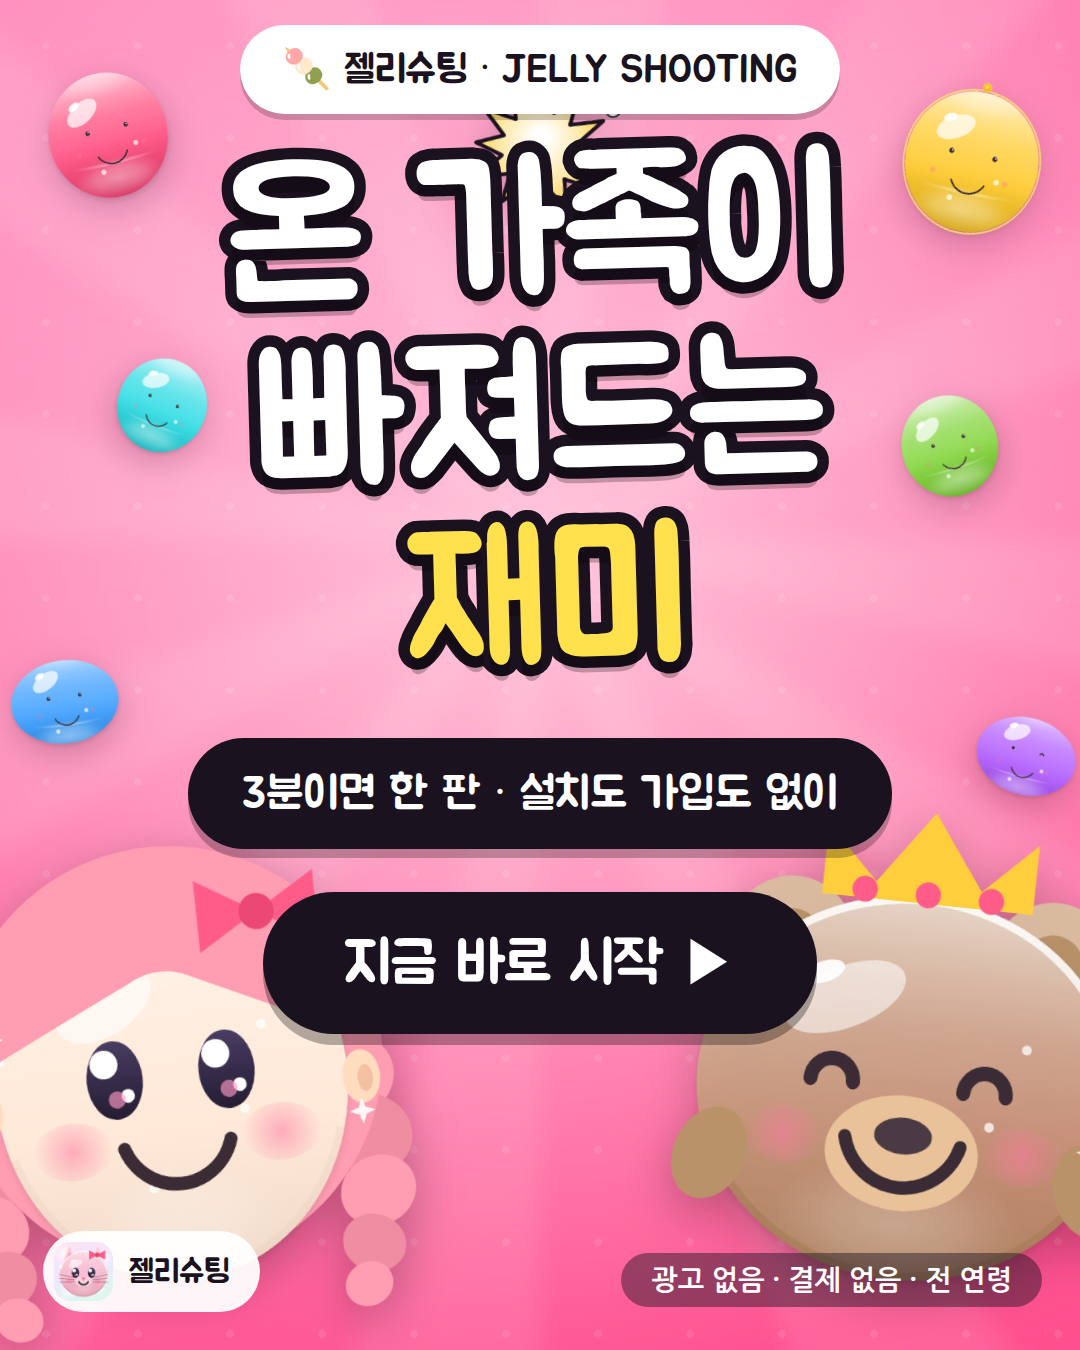
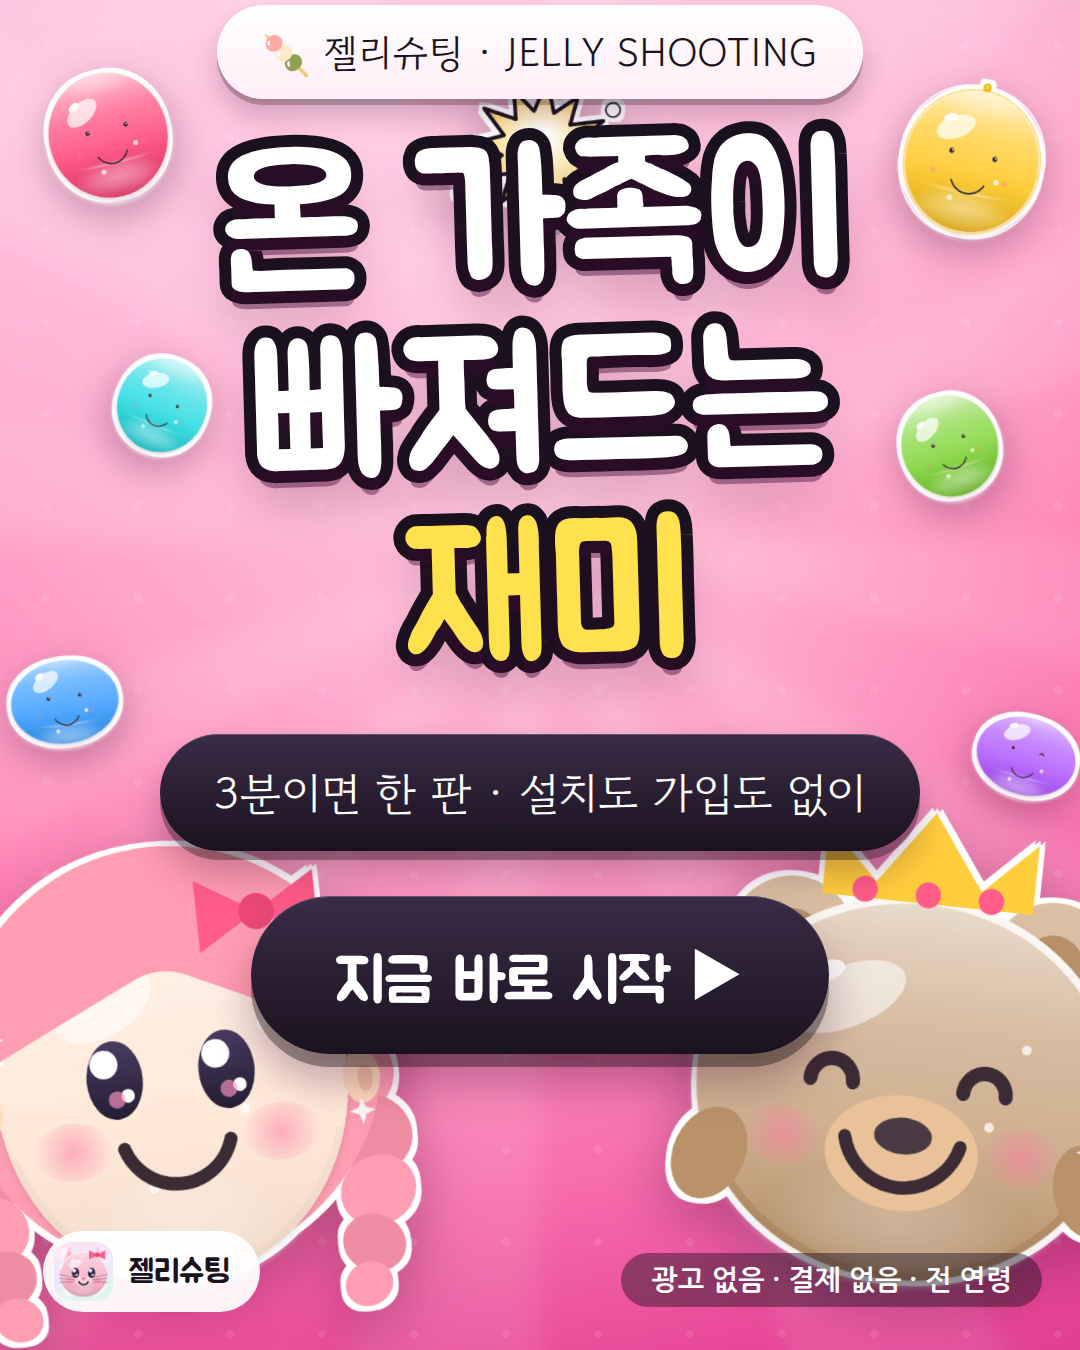
젤리슈팅 인스타: 포스터 판을 더 다듬음 — 색·깊이·스티커 테두리
파스텔 몽환 판(오로라 배경 + 고운바탕 명조)과 배경 젤리밭을 만들어 비교했는데,
예쁘지만 작은 격자에서 눈에 덜 걸리고 배경 젤리는 정신이 사나웠다. 포스터 판으로
돌아오되 그쪽에서 색감만 가져왔다.

- 바탕: 원색 두 정거장 → 세 정거장 그라데이션 (평평하지 않게)
- .sheen(위쪽 광택) · .vign(가장자리 어둠) 추가 — 격자에서 칸끼리 구분된다
- 젤리·캐릭터에 흰 테두리 (drop-shadow 네 방향) — 오려 붙인 스티커처럼
- 제목 그림자 두 겹(바로 아래 + 멀리 퍼지는 것)으로 글자가 판 위에 뜨게
- 띠·눈썹·단추에 세로 그라데이션과 눌린 그림자
- 작은 글씨를 고운돋움으로 (Jua 는 작아지면 획이 뭉친다)
- bgField() 는 코드에 남기되 꺼 둠 — 왜 껐는지 주석에 적었다
- 문서에 '해 보고 버린 것' 세 가지를 남겨 다음에 같은 시도를 반복하지 않게

diff --git a/jelly-shooting/press/인스타-계정.md b/jelly-shooting/press/인스타-계정.md
@@ -155,13 +155,28 @@ https://dashing-quokka-c37a8b.netlify.app/
 | 규칙 | 왜 |
 |---|---|
 | 진한 색 바탕 + 집중선 | 작게 줄어들어도 색으로 먼저 눈에 걸린다 |
+| 바탕은 **세 정거장 그라데이션** + 위쪽 광택 + 가장자리 어둠 | 원색 한 겹은 평평하다. 세 색을 겹치면 깊이가 생기고 격자에서 칸끼리 구분된다 |
 | 흰 글씨 + 두꺼운 검정 테두리 | 어떤 배경 위에서도 안 묻힌다 (`-webkit-text-stroke` + `paint-order`) |
+| 제목 그림자 **두 겹** (바로 아래 + 멀리 퍼지는 것) | 한 겹이면 납작하고, 두 겹이면 글자가 판 위에 떠 보인다 |
 | **캐릭터를 크게** | 이 게임의 첫 번째 무기다. 귀퉁이에 머리만 얹으면 안 판다 |
 | **젤리와 터지는 순간을 뿌린다** | 두 번째 무기가 '팡팡 터지는 손맛'이라, 글로 말하지 않고 그림으로 보여 준다 |
+| 젤리·캐릭터에 **흰 테두리** | 진한 바탕에서 '오려 붙인 스티커'가 된다 (drop-shadow 를 네 방향으로 겹쳐서 만든다) |
+| 제목은 Jua, **작은 글씨는 고운돋움** | Jua 는 크게 쓰면 예쁘고 작아지면 획이 뭉친다 |
 | 검은 알약 띠 · 알약 단추 | 설명과 '게임하기'가 늘 같은 자리에 온다 |
 
 젤리와 캐릭터는 **게임 코드에서 직접 그립니다**(`drawJelly` · `drawAvatar`).
 손으로 그린 목업이 아니라서 게임을 고치면 그림도 같이 바뀝니다.
+
+**해 보고 버린 것 두 가지** (다시 시도하기 전에 읽어 주세요)
+
+1. **촘촘한 집중선** (4도 간격) — 격자에서 축소되면 선끼리 간섭해 **눈이 어지러운 무늬(모아레)** 가
+   생겼습니다. 12줄로 굵고 성글게 깔고 흐리게 푸는 지금 값이 한계선입니다.
+2. **배경을 젤리로 가득 채우기** — 색은 예쁜데 **정신이 사나웠습니다.**
+   앞쪽에 또렷한 젤리 대여섯 알만 두는 게 훨씬 잘 읽힙니다.
+   코드는 `tools/make-insta.mjs` 의 `bgField()` 에 남겨 두고 꺼 뒀습니다(첫 `return ''` 만 지우면 켜집니다).
+3. **파스텔 몽환 판**(오로라 배경 + 고운바탕 명조 + 흰 빛무리)도 한 벌 만들어 비교했는데,
+   예쁘지만 **작은 격자에서 눈에 덜 걸려서** 지금 판으로 돌아왔습니다.
+   색감만 그쪽에서 가져와 그라데이션을 세 정거장으로 늘렸습니다.
 
 ---
 
